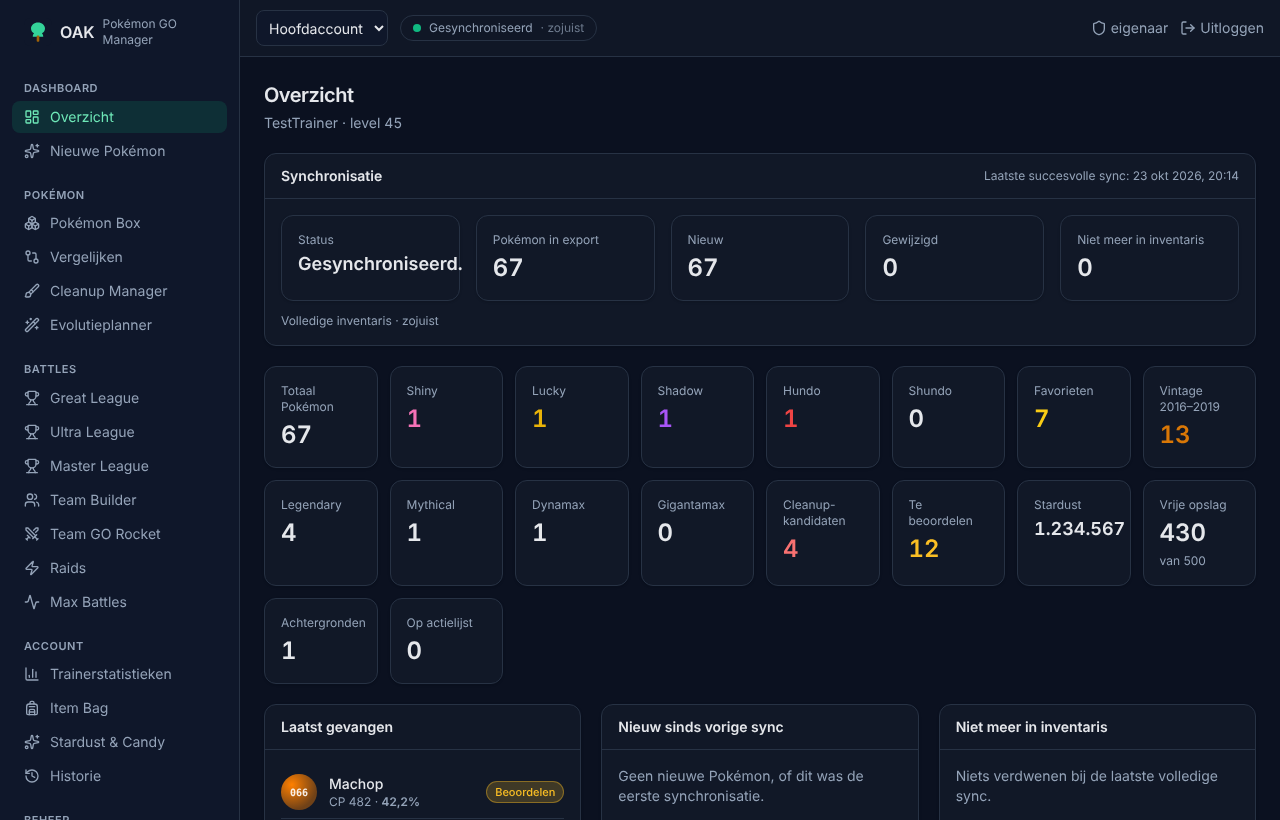
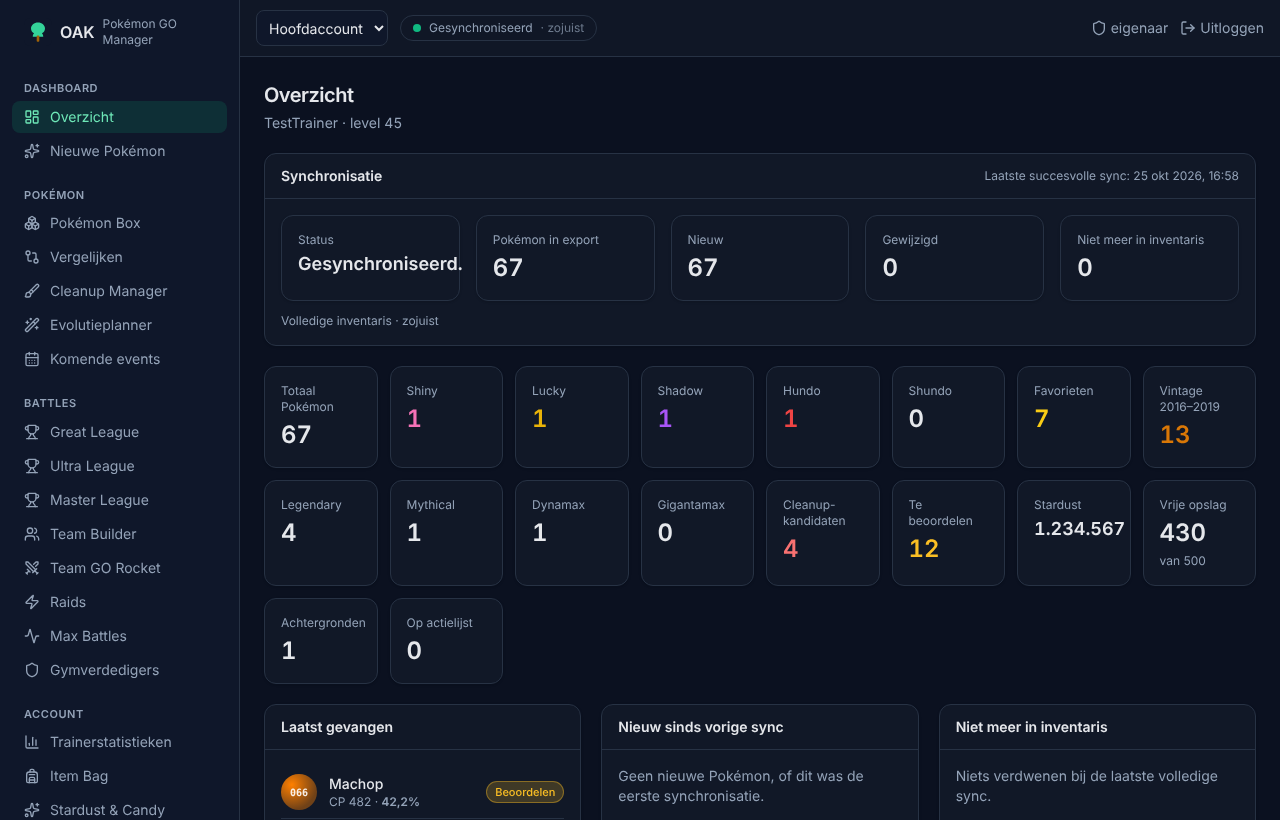
docs: verouderde gegevens en het besluitenregister verwijderen (ADR-0024)
- docs/DECISIONS.md verwijderd. Het register herhaalde de ADR's en
  noemde de beslisser met volledige naam. Een ADR is nu het enige
  verslag van een besluit.
- ADR-0024 vervangt ADR-0023. De geaccepteerde ADR's zijn eenmalig
  opgeschoond: geen verwijzingen meer naar verwijderde ADR's, de oude
  implementatie of besluitnummers. De besluiten zelf zijn gelijk.
- De changelog beschrijft alleen nog versie 2.0.0, zonder wijzigingen
  ten opzichte van niet-uitgebrachte tussenstanden.
- README, DEPLOYMENT en ARCHITECTURE bijgewerkt: de repository is
  openbaar, de eventkalender en purify staan erin.
- Nieuwe schermafbeeldingen met het huidige menu.

Claude-Session: https://claude.ai/code/session_013VRXaWzQpHTrNLUQqVqqqA

diff --git a/CHANGELOG.md b/CHANGELOG.md
@@ -2,72 +2,25 @@
 
 Alle noemenswaardige wijzigingen in OAK. De opbouw volgt [Keep a Changelog](https://keepachangelog.com/nl/1.1.0/) en de versies volgen [Semantic Versioning](https://semver.org/lang/nl/).
 
-## [Onuitgebracht]
-
-### Toegevoegd
-
-- Op de detailpagina van een Shadow Pokémon kun je kiezen tussen *Als Shadow* en *Na purify*. De battle-analyse, de evoluties en de power-ups rekenen dan met het level en de IV's na purify. Zo zie je vooraf of een Pokémon na purify te sterk wordt voor Great League. De regels voor purify staan niet in de Game Master. OAK levert ze zelf aan, met bron (ADR-0022), en bouwt de Game Data daarvoor een keer opnieuw op.
-- Het cleanupadvies houdt rekening met komende events (ADR-0021). Een transfer-kandidaat uit de evolutielijn van een Pokémon met een Community Day in de komende 14 dagen blijft bewaard tot na het event. Bij dubbele Transfer Candy krijg je een tip om te wachten. De kalender komt van LeekDuck.com via ScrapedDuck en wordt iedere 12 uur bijgewerkt. Onder **Pokémon → Komende events** kun je een event negeren of zelf een event toevoegen. De engineversie is nu `cleanup-2.1`, dus OAK berekent alle analyses een keer opnieuw.
-- De eigenaar kan onder **Beheer → Instellingen → Gebruikers** het wachtwoord van een andere gebruiker opnieuw instellen. Die gebruiker wordt daarbij overal uitgelogd.
-
-- Een overzicht van je beste gymverdedigers onder **Battles → Gymverdedigers**. Per soort staat je sterkste exemplaar, gerangschikt op Defense maal HP, met de redenen. Of een Pokémon in een gym mag, komt uit de Game Data. Na de update bouwt OAK de Game Data daarvoor een keer opnieuw op.
-
-- Sorteren in de tabellen van de Great, Ultra en Master League, door op een kolomkop te klikken. Het sorteren gebeurt over alle geschikte Pokémon, en de keuze staat in de adresbalk.
-- Sorteren in de raidtabel op naam, CP, DPS nu en de DPS met de beste moveset. Het sorteren gebeurt binnen de getoonde aanvallers, en het nummer blijft hun plek op DPS.
-- Beveiligingscontroles in CI tegen de draaiende container, een scan op bekende kwetsbaarheden met Grype en een wekelijkse controle. Dependabot stelt iedere week updates voor.
-- De actielijst toont per Pokémon of hij nog uitvoerbaar is. Een Pokémon die inmiddels beschermd is of een nieuwe bevestiging nodig heeft, staat niet in de zoekopdracht, de checklist of de uitvoerbare regels van de CSV.
-- Een upload kan worden geannuleerd en stopt na tien minuten.
-- `npm audit` in CI, die faalt bij een melding met ernst hoog of kritiek.
-
-### Gewijzigd
-
-- Een import vervangt de inventaris alleen als vaststaat dat de export bij het gekoppelde account hoort en wanneer hij is gemaakt. Anders is de import gedeeltelijk en verdwijnt er geen Pokémon. Zo'n import kun je na controle als volledig bevestigen.
-- Bescherming op een transferlijst wordt berekend uit de actuele gegevens en regels, niet uit een analyse die nog kan ontbreken. OAK controleert hem opnieuw bij iedere keer lezen, exporteren en afronden.
-- Bestaande actielijsten moeten opnieuw worden bevestigd voor favorieten, vintage Pokémon, Pokémon zonder vangstdatum en Pokémon met regelbescherming. De bevestiging wordt nu per Pokémon opgeslagen.
-- OAK verwijdert locatie- en identiteitsvelden uit een export op iedere diepte.
-- Registreren kan pas als er een eigenaar is.
-- Publiceren van de image is de laatste stap van de CI-run en volgt alleen als alle controles voor die commit zijn geslaagd. `release.yml` is vervallen.
-- `compose.yaml` geeft iedere instelling uit `.env` door aan de container. Daarvoor is Docker Compose 2.24 of nieuwer nodig.
-- Vitest 5.0.5 en Zod 4.6.7, vanwege bekende kwetsbaarheden in de oudere versies.
-
-- In productie is ook het API-schema (`/api/openapi.json`) niet meer bereikbaar.
-- De basisimages staan vast op een digest. Een registry-mirror stel je in bij de Docker-daemon in plaats van met build-argumenten.
-
-### Verwijderd
-
-- De oude implementatie in `archive/oak-v1/`, Hermes-Oak, de orchestratiebestanden en de vervangen ADR's staan niet meer in de repository (ADR-0023). Het besluitenregister staat nu in `docs/DECISIONS.md`.
-
-### Opgelost
-
-- Bij een Purified Pokémon telde OAK voor een evolutie de gewone candykosten, ook als de Game Master lagere kosten noemt.
-- Een bevestiging op de actielijst gold voor alle regel- en tagbescherming samen. Een later toegevoegde beschermende tag of regel viel er daardoor ook onder. Een bevestiging geldt nu per concrete reden en tag. Bestaande bevestigingen voor regelbescherming moet je één keer opnieuw geven.
-- Het privacyfilter liet geneste waarden in gevechtsstatistieken, badges, valuta en items ongemoeid. Iedere bewaarde waarde gaat nu door hetzelfde filter, en eerder bewaarde exports filtert OAK bij de eerstvolgende start opnieuw.
-
-- De knop *Test Connection* in PGSharp gaf een `400`. OAK beantwoordt een verbindingstest nu met `200`, zonder iets te importeren.
-- Uploads controleren eerst de login en de maximale grootte, en lezen pas daarna het bestand.
-- Een export met een onmogelijke datum of een fout in de verwerking blijft niet meer hangen, en een afgebroken gzip-bestand wordt geweigerd.
-- Een mislukte login staat in het auditlog.
-- Een GET-verzoek kan niet meer mislukken met *database is locked* als er tegelijk iets wordt opgeslagen.
-- Ontbreekt het bestand van de actieve Game Data-versie, bijvoorbeeld na het terugzetten van alleen de database, dan bouwt OAK het opnieuw op.
-- De planner negeerde het uitzetten van *Evoluties toestaan*.
-- Een HTML-foutpagina van een proxy liet een upload eindeloos hangen.
-- Dialoogvensters hebben een toegankelijke naam, houden de toetsenbordfocus vast en geven hem bij sluiten terug.
-- Een Gigantamax-Pokémon kreeg in Max Battles het type van zijn snelle aanval. OAK gebruikt nu zijn G-Max-aanval uit de Game Data.
-
 ## [2.0.0] - nog niet uitgebracht
 
-OAK 2.0 is een volledig nieuwe applicatie en vervangt de Calcy IV- en PostgreSQL-implementatie van OAK v1 (DEC-003).
+De eerste openbare versie van OAK.
 
 ### Toegevoegd
 
-- Koppeling met PGSharp *Export Account Data* via een persoonlijke webhook of een upload van `PGSStats.json`, met dezelfde verwerking voor beide.
+- Koppeling met PGSharp *Export Account Data* via een persoonlijke webhook of een upload van `PGSStats.json`, met dezelfde verwerking voor beide. Een upload kan worden geannuleerd en stopt na tien minuten.
 - Verliesvrije Pokémon- en tag-ID's als tekst, van database tot frontend.
-- Importclassificatie: volledig, gedeeltelijk, ongeldig, verouderd of dubbel. Alleen een volledige import markeert Pokémon als niet meer in inventaris.
+- Importclassificatie: volledig, gedeeltelijk, ongeldig, verouderd of dubbel. Een import vervangt de inventaris alleen als vaststaat dat de export bij het gekoppelde account hoort en wanneer hij is gemaakt. Alleen een volledige import markeert Pokémon als niet meer in inventaris. Een gedeeltelijke import kun je na controle als volledig bevestigen.
 - Synchronisatiehistorie met een gebeurtenis per verschenen, gewijzigde, verdwenen of teruggekeerde Pokémon.
-- Game Data van PokeMiners en PvPoke, met versiebeheer, controle vóór activering, terugrollen en installatie zonder internet.
-- PvP-analyse voor Great, Ultra en Master League, movesetadvies, evolutie- en power-upplanner, Team Builder, raid-, Rocket- en Max Battle-overzichten.
-- Cleanup Manager met harde bescherming, zachte bescherming voor favorieten, vintage-bescherming voor 2016–2019, een bruikbaarheidsscore en een bewaarscore (ADR-0019), dubbelen, een actielijst met bevestiging per Pokémon, een CSV-export en een printbare checklist.
+- Een privacyfilter dat locaties, namen van andere spelers en interne spelers-ID's op iedere diepte uit een export verwijdert.
+- Game Data van PokeMiners en PvPoke, met versiebeheer, controle vóór activering, terugrollen en installatie zonder internet. Spelregels die daar niet in staan, zoals die voor purify, levert OAK zelf aan met bron (ADR-0022).
+- Komende events uit de kalender van LeekDuck.com via ScrapedDuck (ADR-0021). Een transfer-kandidaat uit de evolutielijn van een Pokémon met een Community Day in de komende 14 dagen blijft bewaard tot na het event. Bij dubbele Transfer Candy krijg je een tip om te wachten. Per traineraccount kun je een event negeren of zelf een event toevoegen.
+- PvP-analyse voor Great, Ultra en Master League, movesetadvies, een evolutie- en power-upplanner en een Team Builder. De league- en raidtabellen zijn te sorteren.
+- Raid-, Rocket- en Max Battle-overzichten en je beste gymverdedigers.
+- Op de detailpagina van een Shadow Pokémon rekenen met de Pokémon zoals hij is of zoals hij na purify wordt.
+- Cleanup Manager met harde bescherming, zachte bescherming voor favorieten, vintage-bescherming voor 2016–2019, een bruikbaarheidsscore en een bewaarscore (ADR-0019) en dubbelen. Een actielijst met bevestiging per Pokémon en per beschermingsreden, zoekteksten voor in het spel, een CSV-export en een printbare checklist.
 - Nederlandstalige React-interface met standaard dark mode en een responsive opmaak.
-- Meerdere gebruikers en traineraccounts, Argon2id, sessiecookies, CSRF, throttling en gehashte webhook-tokens.
-- Docker-image met PUID/PGID, healthcheck en `compose.yaml`. CI met tests, end-to-end tests en een Docker-controle. Releases naar `ghcr.io/arjancool/oak-pogo` voor amd64 en arm64.
+- Meerdere gebruikers en traineraccounts. De eigenaar maakt gebruikers aan en kan een wachtwoord opnieuw instellen. Argon2id, sessiecookies, CSRF, throttling, gehashte webhook-tokens en een auditlog.
+- Docker-image met PUID/PGID, healthcheck en `compose.yaml`, voor Docker Compose 2.24 of nieuwer. De basisimages staan vast op een digest.
+- CI met tests, end-to-endtests, een Docker-controle, beveiligingscontroles tegen de draaiende container, een kwetsbaarheidsscan met Grype en `npm audit`. De image wordt alleen gepubliceerd naar `ghcr.io/arjancool/oak-pogo`, voor amd64 en arm64, als alle controles slagen. Dependabot stelt iedere week updates voor.
 - Documentatie in `docs/` en deze changelog.

diff --git a/README.md b/README.md
@@ -52,7 +52,7 @@ OAK vraagt nooit om je Pokémon GO-wachtwoord. Het leest alleen de export die PG
 - **PGSharp** met de functie **Settings → Export Account Data (Beta)**. Welke versienummers die functie hebben, is niet vastgesteld. Zie [docs/PGSHARP_INTEGRATION.md](docs/PGSHARP_INTEGRATION.md).
 - **Een machine met Docker**, bijvoorbeeld een Linux-server, een NAS of een computer met Docker Desktop. De image wordt gebouwd voor amd64 en arm64. De arm64-versie is nog niet op echte hardware getest.
 - **Voor de webhook** moet OAK bereikbaar zijn vanaf je telefoon. Dat kan thuis via wifi, of via internet achter een reverse proxy met https. Voor alleen uploaden is dat niet nodig.
-- **Internet op de server**, om Game Data te downloaden. Zonder internet kun je de Game Data ook handmatig uploaden.
+- **Internet op de server**, om Game Data en de eventkalender te downloaden. Zonder internet kun je de Game Data ook handmatig uploaden.
 
 ## Docker installeren
 
@@ -99,7 +99,7 @@ Vervang `OAK_BASE_URL` door het adres waarop je OAK opent. Dat adres komt ook in
 docker compose up -d
 ```
 
-Het pakket op ghcr.io is privé zolang de repository privé is. Log dan eerst één keer in met een GitHub-token dat alleen `read:packages` mag: `docker login ghcr.io`.
+Geeft `docker compose up` de melding *denied*, dan staat het pakket op ghcr.io op privé. Log dan eerst één keer in met een GitHub-token dat alleen `read:packages` mag: `docker login ghcr.io`.
 
 ### Vanuit de broncode
 
@@ -120,7 +120,7 @@ Bij het eerste bezoek vraagt OAK om een eigenaaraccount. Kies een gebruikersnaam
 
 ![Eerste gebruik](docs/images/setup.png)
 
-De eigenaar beheert de installatie. Andere gebruikers voeg je toe onder **Beheer → Instellingen → Gebruikers**, met een gebruikersnaam en een beginwachtwoord. Na het inloggen maakt iedere gebruiker zelf zijn traineraccounts en webhooks aan, en wijzigt hij zijn wachtwoord onder **Wachtwoord wijzigen**. Vergeet iemand zijn wachtwoord, dan stelt de eigenaar via **Wachtwoord opnieuw instellen** een nieuw in.
+De eigenaar beheert de installatie. Andere gebruikers voeg je toe onder **Beheer → Instellingen → Gebruikers**, met een gebruikersnaam en een beginwachtwoord. Na het inloggen maakt iedere gebruiker zelf traineraccounts en webhooks aan. Het eigen wachtwoord wijzig je onder **Wachtwoord wijzigen**. Is een wachtwoord vergeten, dan stelt de eigenaar via **Wachtwoord opnieuw instellen** een nieuw in.
 
 Begint `OAK_BASE_URL` met `https://`, dan stuurt OAK het inlogcookie alleen via https. Open OAK dan ook via dat https-adres.
 
@@ -166,7 +166,7 @@ De Box toont al je Pokémon als tabel of als kaarten. Filters staan in de URL, d
 
 ![Pokémon Box](docs/images/box.png)
 
-Klik op een Pokémon voor de detailpagina, met IV's, level, aanvallen, de league-analyse, evoluties, power-upkosten, het cleanup-advies en de historie. Daar leg je ook je eigen gegevens vast: bescherming, notities, OAK-tags en plannen.
+Klik op een Pokémon voor de detailpagina, met IV's, level, aanvallen, de league-analyse, evoluties, power-upkosten, het cleanup-advies en de historie. Bij een Shadow Pokémon kies je of OAK rekent met de Pokémon zoals hij is of zoals hij na purify wordt. Daar leg je ook je eigen gegevens vast: bescherming, notities, OAK-tags en plannen.
 
 ![Detailpagina](docs/images/detail.png)
 
@@ -285,7 +285,7 @@ Bij het starten voert OAK database-migraties zelf uit, na een automatische back-
 | Probleem | Oplossing |
 |---|---|
 | De container wordt niet *healthy* | Bekijk `docker logs oak`. Vaak kan OAK niet schrijven in de datamap. Controleer `PUID` en `PGID`. |
-| `docker compose pull` geeft *denied* | Het pakket is privé. Log in met `docker login ghcr.io`. |
+| `docker compose pull` geeft *denied* | Het pakket staat op privé. Log in met `docker login ghcr.io`. |
 | Na inloggen sta je weer op het inlogscherm | `OAK_BASE_URL` begint met `https://`, maar je opent OAK via http. Open het https-adres, of pas `OAK_BASE_URL` aan. |
 | "Te veel mislukte inlogpogingen" | Wacht hooguit een kwartier. Draait OAK achter een reverse proxy, stel dan `OAK_TRUSTED_PROXY_CIDRS` in. |
 | De poort is al in gebruik | Kies een andere hostpoort in `ports`, bijvoorbeeld `"8093:8080"`. |
@@ -310,7 +310,6 @@ Bij het starten voert OAK database-migraties zelf uit, na een automatische back-
 | [docs/SECURITY.md](docs/SECURITY.md) | Beveiliging |
 | [docs/BACKUP_RESTORE.md](docs/BACKUP_RESTORE.md) | Back-up en herstel |
 | [docs/ROADMAP.md](docs/ROADMAP.md) | Wat klaar is en wat nog komt |
-| [docs/DECISIONS.md](docs/DECISIONS.md) | Besluiten van de eigenaar |
 | [docs/adr/](docs/adr/) | Architectuurbesluiten |
 
 Wil je meebouwen, lees dan [CONTRIBUTING.md](CONTRIBUTING.md).

diff --git a/docs/ARCHITECTURE.md b/docs/ARCHITECTURE.md
@@ -1,6 +1,6 @@
 # Architectuur
 
-OAK is één container met drie onderdelen: een FastAPI-backend, een React-frontend en een SQLite-database in `/data`. Er zijn geen andere services nodig. De besluiten daarachter staan in ADR-0012 tot en met ADR-0020.
+OAK is één container met drie onderdelen: een FastAPI-backend, een React-frontend en een SQLite-database in `/data`. Er zijn geen andere services nodig. De besluiten daarachter staan in de ADR's in `docs/adr/`.
 
 ```
 PGSharp ──webhook──▶ ┌────────────────────────────── container ──────────────────────────────┐
@@ -12,7 +12,7 @@ browser ──https────▶ │   ├─ /api/v1/…   REST-API, sessies,
                      │  SQLite  /data/oak.db   ·   Game Data  /data/gamedata                 │
                      └──────────────────────────────────────────────────────────────────────┘
                                          ▲
-             PokeMiners en PvPoke ───────┘  (Game Data, alleen ophalen)
+    PokeMiners, PvPoke, ScrapedDuck ─────┘  (Game Data en events, alleen ophalen)
 ```
 
 ## Uitgangspunten
@@ -32,12 +32,12 @@ De backend volgt een hexagonale indeling. Domeinlogica is pure Python en kent ge
 | Map | Inhoud |
 |---|---|
 | `app/domain` | Genormaliseerde Pokémon, importclassificatie, wijzigingsdetectie, de zoeksyntax en de vintage-regel. Puur. |
-| `app/normalizers` | Van PGSharp-export naar het domeinmodel, het opschonen van opgeslagen exports en de structuursamenvatting voor diagnose. Puur. |
-| `app/analysis` | Statistieken, CP en HP, PvP-rangtabellen, power-upkosten, evoluties, aanvallen en het raidmodel. Puur. |
-| `app/recommendations` | Cleanup-regels, de twee scores en de Cleanup-engine. Puur. |
-| `app/gamedata` | Downloaden, omzetten en valideren van Game Data, en het versiebeheer. |
+| `app/normalizers` | Van PGSharp-export naar het domeinmodel, het opschonen van opgeslagen exports, de structuursamenvatting voor diagnose en het lezen van de eventkalender. Puur. |
+| `app/analysis` | Statistieken, CP en HP, PvP-rangtabellen, power-upkosten, evoluties, purify, aanvallen, het raidmodel en gymverdedigers. Puur. |
+| `app/recommendations` | Cleanup-regels, de twee scores, de regels voor events en de Cleanup-engine. Puur. |
+| `app/gamedata` | Downloaden, omzetten en valideren van Game Data, de aanvullende spelregels (ADR-0022) en het versiebeheer. |
 | `app/ingestion` | Ontvangen en decoderen van exports, importjobs, synchronisatie en afgeleide kolommen. |
-| `app/services` | Analyse per account, weergave van Pokémon, battle-overzichten, instellingen en de transferregels. |
+| `app/services` | Analyse per account, weergave van Pokémon, battle-overzichten, events, instellingen en de transferregels. |
 | `app/repositories` | Box-filters en zoektermen vertaald naar SQL. |
 | `app/models` | SQLAlchemy 2-modellen. Zie `docs/DATA_MODEL.md`. |
 | `app/api` | FastAPI-routes onder `/api/v1`, afhankelijkheden voor sessie, CSRF en eigendom. |
@@ -60,7 +60,7 @@ Upload en webhook gebruiken vanaf stap 2 precies dezelfde code.
 
 ### Achtergrondverwerking
 
-De verwerker is een thread in hetzelfde proces. De wachtrij staat in de tabel `background_jobs`, zodat werk een herstart overleeft: bij het starten zet OAK onderbroken taken terug in de wachtrij. Taken zijn imports, analyses, Game Data-updates en het opnieuw afleiden na een Game Data-wissel. Ieder uur draait onderhoud: opgeslagen exports opruimen na de bewaartermijn en zo nodig op nieuwe Game Data controleren.
+De verwerker is een thread in hetzelfde proces. De wachtrij staat in de tabel `background_jobs`, zodat werk een herstart overleeft: bij het starten zet OAK onderbroken taken terug in de wachtrij. Taken zijn imports, analyses, Game Data-updates, het opnieuw afleiden na een Game Data-wissel en het ophalen van de eventkalender. Ieder uur draait onderhoud: opgeslagen exports opnieuw filteren als het privacyfilter strenger werd, ze opruimen na de bewaartermijn, zo nodig op nieuwe Game Data en een nieuwe eventkalender controleren, en analyses opnieuw inplannen als een event binnen de termijn komt of voorbij is.
 
 ### Database
 

diff --git a/docs/adr/ADR-0020-artwork-and-sprite-licences.md b/docs/adr/ADR-0020-artwork-and-sprite-licences.md
@@ -2,30 +2,21 @@
 
 - Status: Accepted
 - Date: 2026-10-23
-- Supersedes: ADR-0018
-- Besluit: DEC-005
 
 ## Context
 
-ADR-0018 besloot dat OAK geen Pokémon-afbeeldingen meelevert en dat de eigenaar een externe spritebron kan aanzetten. Dat besluit klopt nog steeds. De context van ADR-0018 bevat echter twee beweringen over de PokeAPI-spriterepository die niet kloppen.
-
-- ADR-0018 zegt dat de repository onder CC0 staat.
-- ADR-0018 zegt dat de repository expliciet vermeldt dat de afbeeldingen auteursrechtelijk beschermd zijn door The Pokémon Company.
-
-Op 23 oktober 2026 is de repository `PokeAPI/sprites` op de branch `master` gecontroleerd.
+OAK toont Pokémon. De afbeeldingen daarvan zijn het werk van de rechthebbenden (Nintendo, The Pokémon Company, Game Freak en Creatures). Een veelgebruikte bron is de repository `PokeAPI/sprites`. Die is op 23 oktober 2026 op de branch `master` gecontroleerd.
 
 - Het `package.json` noemt de licentie ISC.
 - Er is geen licentiebestand. `LICENSE`, `LICENSE.md`, `LICENSE.txt` en `COPYING` bestaan niet.
 - De README noemt geen CC0 en geen auteursrecht van The Pokémon Company.
 - De README vermeldt dat de sprites vanaf Pokémon: Let's Go Pikachu en Let's Go Eevee zijn gerenderd uit originele game-assets.
 
-De licentie van de afbeeldingen is daarmee onduidelijk. Of het ISC-veld in `package.json` ook voor de afbeeldingen bedoeld is, staat nergens. Los daarvan blijven Pokémon-afbeeldingen het werk van de rechthebbenden (Nintendo, The Pokémon Company, Game Freak en Creatures). Een licentie in een repository van derden kan dat niet veranderen.
-
-Een geaccepteerde ADR wijzigt alleen via een nieuwe ADR. Daarom vervangt deze ADR ADR-0018.
+De licentie van de afbeeldingen is daarmee onduidelijk. Of het ISC-veld in `package.json` ook voor de afbeeldingen bedoeld is, staat nergens. Een licentie in een repository van derden kan het recht van de rechthebbenden niet veranderen.
 
 ## Besluit
 
-Het besluit van ADR-0018 blijft inhoudelijk gelijk. De regels zijn nu:
+De regels zijn:
 
 - OAK bevat geen Pokémon-afbeeldingen in de broncode, de Docker-image, de testdata, de documentatie of de screenshots.
 - Standaard toont OAK een eigen, gegenereerde badge met het Pokédex-nummer in de kleur van het type.
@@ -38,6 +29,5 @@ Het besluit van ADR-0018 blijft inhoudelijk gelijk. De regels zijn nu:
 
 ## Gevolgen
 
-- Het gedrag van OAK verandert niet. Alleen de melding in het instellingenscherm zegt nu ook dat het aanzetten een keuze van de eigenaar is.
-- ADR-0018 krijgt de status Superseded. Verwijzingen in de code en de documentatie gaan naar deze ADR.
+- Standaard laadt OAK geen afbeeldingen van buiten.
 - Wie OAK met een spritebron gebruikt, doet dat op eigen verantwoordelijkheid. Dat staat in `docs/DATA_SOURCES.md` en in het instellingenscherm.

diff --git a/docs/adr/ADR-0024-public-baseline.md b/docs/adr/ADR-0024-public-baseline.md
@@ -1,0 +1,22 @@
+# ADR-0024: Een openbare repository met alleen de huidige stand
+
+- Status: Accepted
+- Date: 2026-10-25
+- Vervangt: ADR-0023
+
+## Context
+
+OAK staat in een openbare repository die met één commit begint. Daarvoor zijn de oude implementatie, losse projecten en vervangen ADR's verwijderd (ADR-0023). Daarna stonden er nog verwijzingen naar die verwijderde bestanden in de documentatie en in geaccepteerde ADR's. Ook was er een apart besluitenregister in `docs/DECISIONS.md`. Dat herhaalde wat in de ADR's staat en noemde de persoon die besliste met volledige naam.
+
+## Besluit
+
+- De repository bevat alleen wat OAK nu is. Oude versies worden niet in een map bewaard.
+- Een ADR die door een nieuwe ADR wordt vervangen, gaat uit de repository. `docs/adr/README.md` noemt welke nummers daardoor ontbreken.
+- Er is geen apart besluitenregister. Een ADR is het verslag van een besluit. De verwijzingen naar besluitnummers (`DEC-…`) vervallen.
+- Bij de start van de openbare repository zijn de geaccepteerde ADR's eenmalig opgeschoond. Verwijzingen naar verwijderde ADR's, naar de oude implementatie en naar het besluitenregister zijn eruit gehaald. De besluiten zelf zijn niet veranderd. Daarna geldt weer dat een geaccepteerde ADR alleen verandert via een nieuwe ADR.
+- Documentatie noemt geen persoonsgegevens van de eigenaar of van gebruikers.
+
+## Gevolgen
+
+- ADR-0023 is vervangen en staat niet meer in de repository.
+- Wie wil weten waarom iets zo is, leest de ADR. Er is geen tweede bron die ermee in strijd kan raken.

diff --git a/docs/adr/ADR-0012-pgsharp-primary-source.md b/docs/adr/ADR-0012-pgsharp-primary-source.md
@@ -2,12 +2,10 @@
 
 - Status: Accepted
 - Date: 2026-10-23
-- Supersedes: ADR-0011
-- Besluit: DEC-003
 
 ## Context
 
-OAK v1 was ontworpen rond Calcy IV-CSV-exports. Die bevatten geen stabiele identiteit per Pokémon, waardoor een categorisch matchingalgoritme nodig was (ADR-0011). De PGSharp-functie *Export Account Data* levert per Pokémon het interne 64-bitsidentificatienummer uit de game. Een echte export (oktober 2026, 983 Pokémon) bevestigt dat dit veld uniek en stabiel aanwezig is.
+OAK moet iedere Pokémon over meerdere synchronisaties heen herkennen. Exports van scanapps zoals Calcy IV bevatten geen stabiele identiteit per Pokémon. Dan kun je exemplaren alleen koppelen op zichtbare eigenschappen, en dat gaat mis bij twee gelijke exemplaren. De PGSharp-functie *Export Account Data* levert per Pokémon het interne 64-bitsidentificatienummer uit de game. Een echte export (oktober 2026, 983 Pokémon) bevestigt dat dit veld uniek en stabiel aanwezig is.
 
 ## Besluit
 
@@ -15,7 +13,7 @@ OAK v1 was ontworpen rond Calcy IV-CSV-exports. Die bevatten geen stabiele ident
 - `source_pokemon_id` is het PGSharp-veld `id`, opgeslagen en verstuurd als decimale string.
 - Webhook en handmatige upload gebruiken exact dezelfde verwerkingspijplijn.
 - Fuzzy matching op soort, CP of IV wordt niet gebruikt. Twee Pokémon met dezelfde soort en CP zijn nooit automatisch hetzelfde exemplaar.
-- Calcy IV-import valt buiten OAK 2.0. De oude parser staat in `archive/oak-v1/`.
+- Import uit Calcy IV valt buiten OAK.
 
 ## Gevolgen
 

diff --git a/docs/adr/README.md b/docs/adr/README.md
@@ -1,6 +1,6 @@
 # Architectuurbesluiten
 
-Iedere ADR beschrijft één besluit, met de context en de gevolgen. Een geaccepteerde ADR verandert alleen via een nieuwe ADR die hem vervangt. De besluiten van de eigenaar staan ook in [`docs/DECISIONS.md`](../DECISIONS.md).
+Iedere ADR beschrijft één besluit, met de context en de gevolgen. Een geaccepteerde ADR verandert alleen via een nieuwe ADR die hem vervangt.
 
 | ADR | Onderwerp |
 |---|---|
@@ -19,6 +19,6 @@ Iedere ADR beschrijft één besluit, met de context en de gevolgen. Een geaccept
 | [0020](ADR-0020-artwork-and-sprite-licences.md) | Geen meegeleverde afbeeldingen, en de licentie van sprites |
 | [0021](ADR-0021-event-data.md) | Eventgegevens van LeekDuck via ScrapedDuck |
 | [0022](ADR-0022-supplementary-game-rules.md) | Spelregels die niet in de Game Master staan |
-| [0023](ADR-0023-public-repository.md) | Een openbare repository zonder oude versies |
+| [0024](ADR-0024-public-baseline.md) | Een openbare repository met alleen de huidige stand |
 
-De nummers 0002, 0004, 0005, 0006, 0008, 0011 en 0018 hoorden bij ADR's die door een latere ADR zijn vervangen. Ze zijn verwijderd toen de repository openbaar werd (ADR-0023). De ADR die ze verving, beschrijft wat er veranderde.
+De nummers 0002, 0004, 0005, 0006, 0008, 0011, 0018 en 0023 hoorden bij ADR's die later zijn vervangen. Een vervangen ADR staat niet in de repository (ADR-0024).

diff --git a/docs/adr/ADR-0014-sqlite-single-container.md b/docs/adr/ADR-0014-sqlite-single-container.md
@@ -2,19 +2,17 @@
 
 - Status: Accepted
 - Date: 2026-10-23
-- Supersedes: ADR-0004
-- Besluit: DEC-003
 
 ## Context
 
-ADR-0004 maakte PostgreSQL de bron van waarheid, met Redis en ARQ voor achtergrondtaken. OAK 2.0 richt zich op een particuliere installatie met een paar gebruikers en enkele duizenden Pokémon per account, en moet in één container draaien zonder externe services.
+OAK richt zich op een particuliere installatie met een paar gebruikers en enkele duizenden Pokémon per account, en moet in één container draaien zonder externe services.
 
 ## Besluit
 
 - SQLite in `/data/oak.db` is de enige bron van waarheid.
 - Verbindingen gebruiken `foreign_keys=ON`, WAL-modus, `busy_timeout` en `synchronous=NORMAL`.
 - Schrijvende importtransacties starten met `BEGIN IMMEDIATE`, zodat er nooit twee schrijvers tegelijk een import verwerken.
-- Achtergrondtaken lopen in het applicatieproces via een duurzame takentabel. Redis en ARQ vervallen.
+- Achtergrondtaken lopen in het applicatieproces via een duurzame takentabel. Er is geen aparte wachtrijdienst nodig.
 - Datatoegang verloopt via repositories met SQLAlchemy 2. Er zit geen SQLite-specifieke SQL in services of domeinlogica, zodat een latere overstap naar PostgreSQL alleen de adapterlaag raakt.
 - 64-bitsidentificaties boven `2^63 - 1` passen niet in een SQLite-INTEGER en worden als `TEXT` opgeslagen.
 

diff --git a/docs/DEPLOYMENT.md b/docs/DEPLOYMENT.md
@@ -19,13 +19,11 @@ Iedere push naar `main` publiceert `ghcr.io/arjancool/oak-pogo:latest` en `ghcr.
 
 Publiceren is de laatste stap van de CI-run voor die commit. Hij start pas als de backend-, frontend- en browsertests, de Docker-build, de beveiligingscontroles en de kwetsbaarheidsscan allemaal zijn geslaagd. Faalt er één, dan verschijnt er geen nieuwe image. Een handmatige run via **Actions → CI → Run workflow** doorloopt dezelfde controles en publiceert alleen vanaf `main` of een versietag. De controles draaien op amd64. De arm64-image wordt uit dezelfde commit gebouwd, maar niet apart getest.
 
-Het pakket hoort bij een privé-repository en is daarom ook privé. Een server moet één keer inloggen met een GitHub-token dat alleen `read:packages` mag:
+Staat het pakket op privé, dan moet een server één keer inloggen met een GitHub-token dat alleen `read:packages` mag:
 
 ```bash
 docker login ghcr.io -u <github-gebruikersnaam>
 ```
-
-Wie geen login wil, kan het pakket openbaar maken in de pakketinstellingen op GitHub. De broncode blijft dan privé.
 
 Een minimale compose-definitie:
 

diff --git a/docs/adr/ADR-0015-state-with-change-history.md b/docs/adr/ADR-0015-state-with-change-history.md
@@ -2,12 +2,10 @@
 
 - Status: Accepted
 - Date: 2026-10-23
-- Supersedes: ADR-0005, ADR-0006
-- Besluit: DEC-003
 
 ## Context
 
-ADR-0005 en ADR-0006 schreven volledige event sourcing en CQRS voor. Een PGSharp-export is telkens een volledige momentopname van de inventaris. De vraag die de gebruiker stelt is vooral wat de huidige staat is en wat er tussen twee synchronisaties veranderde.
+Een PGSharp-export is telkens een volledige momentopname van de inventaris. De vraag die de gebruiker stelt is vooral wat de huidige staat is en wat er tussen twee synchronisaties veranderde.
 
 ## Besluit
 
@@ -24,4 +22,4 @@ ADR-0005 en ADR-0006 schreven volledige event sourcing en CQRS voor. Een PGSharp
 
 ## Verworpen alternatieven
 
-Volledige event sourcing is verworpen omdat de bron zelf al momentopnamen levert en replay van duizenden gebeurtenissen per sync geen toegevoegde waarde heeft.
+Volledige event sourcing met CQRS is verworpen omdat de bron zelf al momentopnamen levert en replay van duizenden gebeurtenissen per sync geen toegevoegde waarde heeft.

diff --git a/docs/DATA_SOURCES.md b/docs/DATA_SOURCES.md
@@ -80,8 +80,6 @@ Over de licentie van die repository, gecontroleerd op 23 oktober 2026:
 
 Pokémon-afbeeldingen zijn auteursrechtelijk beschermd door The Pokémon Company, los van welke licentie een repository noemt. Wie een spritebron aanzet, doet dat op eigen verantwoordelijkheid.
 
-Een eerdere ADR noemde de spriterepository ten onrechte CC0. ADR-0020 verving die met de gecontroleerde gegevens. Het besluit zelf veranderde niet.
-
 ## Referentieprojecten
 
 Deze projecten zijn bekeken als functionele referentie. OAK neemt er geen code, data of vormgeving uit over.

diff --git a/docs/ROADMAP.md b/docs/ROADMAP.md
@@ -4,7 +4,7 @@ Dit overzicht volgt de fasen uit de oorspronkelijke opdracht. Het zegt wat er in
 
 ## Fase 0: repository en ontwerp
 
-Klaar. De besluiten staan in `docs/DECISIONS.md` en in de ADR's in `docs/adr/`. Architectuur, datamodel, PGSharp-koppeling, databronnen en analyse zijn beschreven in `docs/`.
+Klaar. De besluiten staan in de ADR's in `docs/adr/`. Architectuur, datamodel, PGSharp-koppeling, databronnen en analyse zijn beschreven in `docs/`.
 
 ## Fase 1: werkende Docker-basis
 
